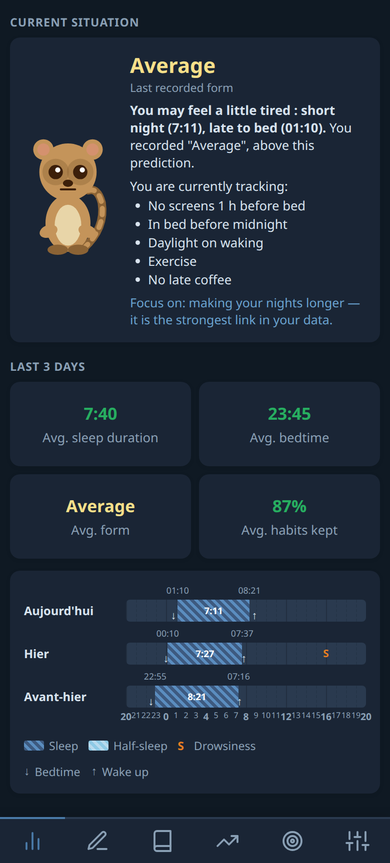
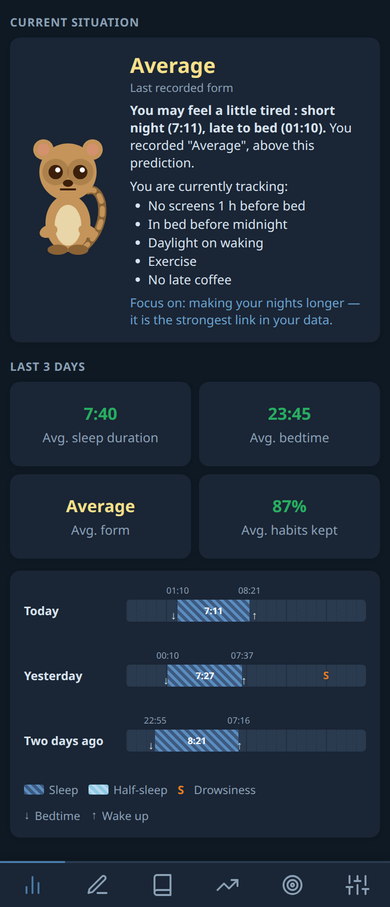
Drop the hour ruler from the dashboard preview
Each recorded period already carries its own start and end times there, so
a full 24 h ruler underneath only repeated the axis without adding
information. renderTL takes opts.hideHours; Entry and History keep theirs,
where rows must be comparable against a common scale.

The preview's day labels were also still French whatever the language.

Claude-Session: https://claude.ai/code/session_01FQFvFp19TCnSP51ghzrwLx

diff --git a/frontend/js/summary.js b/frontend/js/summary.js
@@ -584,24 +584,20 @@ function renderSummary() {
     <div class="chart-card sum-preview" style="margin-bottom:12px">
       ${prevDays.map(({ds, e}, i) => {
         // The night dated yesterday carries today's day form
-        const label = ['Aujourd\'hui', 'Hier', 'Avant-hier'][i];
+        const label = [t('d_today'), t('d_yesterday'), t('d_before')][i];
         const dateTip = new Date(ds+'T12:00:00').toLocaleDateString(t('locale'), {weekday:'long', day:'2-digit', month:'long'});
         return `<div class="sum-prev-row"${i ? ' style="margin-top:6px"' : ''}>
             <span class="sum-prev-lbl" title="${t('night_of_one')(dateTip)}">${label}</span>
             <div id="sum-prev-${i}" style="flex:1;min-width:0">${e ? '' : `<p class="sum-prev-empty">${t('none_day')}</p>`}</div>
           </div>`;
       }).join('')}
-      <div class="sum-prev-row sum-prev-foot">
-        <span class="sum-prev-lbl"></span>
-        <div id="sum-prev-ruler" style="flex:1;min-width:0"></div>
-      </div>
       <div id="sum-prev-legend"></div>
     </div>`;
 
   // "Your data analysed" moved to the Statistics tab (renderCorrelations).
   el.innerHTML = sectionTitle(t('sec_now')) + mascotCard + miniCards + previewCard;
 
-  prevDays.forEach(({e}, i) => { if (e) renderTL(e, `sum-prev-${i}`, { showTimes: true }); });
+  prevDays.forEach(({e}, i) => { if (e) renderTL(e, `sum-prev-${i}`, { showTimes: true, hideHours: true }); });
   // renderTL re-emits the ruler and legend on every call, inside the row it renders
   // into: only one set is kept, moved into the card's footer so every row keeps the
   // same height and label, bar and duration stay aligned.
@@ -614,7 +610,6 @@ function renderSummary() {
       const dest = document.getElementById(destId);
       if (keep && dest) dest.appendChild(keep);
     };
-    moveLast('.tl-hlabels', 'sum-prev-ruler');
     moveLast('.tl-legend',  'sum-prev-legend');
   }
 }

diff --git a/frontend/js/timeline.js b/frontend/js/timeline.js
@@ -118,9 +118,11 @@ function renderTL(e, containerId, opts = {}) {
       `font-size:0.65rem;color:#e67e22;font-weight:700;z-index:2;pointer-events:none" title="${d}">S</div>`;
   });
 
-  // Hour labels — every 1h; major at every 4h
+  // Hour labels — every 1h; major at every 4h.
+  // `opts.hideHours` drops them entirely: the dashboard preview stamps each recorded
+  // period with its own times, so a full ruler underneath only adds noise.
   let labels = '';
-  for (let h = 0; h <= 24; h++) {
+  for (let h = 0; opts.hideHours ? false : h <= 24; h++) {
     const hour = (20 + h) % 24;
     const major = h % 4 === 0;
     labels += `<div style="position:absolute;left:${pct(h/24)};transform:translateX(-50%);` +

diff --git a/frontend/js/i18n.js b/frontend/js/i18n.js
@@ -6,6 +6,7 @@ const S = {
     nav_saisie:'Saisie', nav_hist:'Historique', nav_stats:'Statistiques', nav_options:'Options',
     display_card:'Affichage', lbl_theme:'Thème', lbl_lang:'Langue',
     // --- Tableau de bord (mascotte, cartes) ---
+    d_today:'Aujourd\'hui', d_yesterday:'Hier', d_before:'Avant-hier',
     sec_now:'Situation actuelle', sec_3d:'3 derniers jours', sec_analysis:'Analyse de tes données',
     last_form:'Dernière forme enregistrée', no_form:'Aucune forme enregistrée',
     m_first:'Enregistre ta première nuit pour voir une prédiction.',
@@ -123,6 +124,7 @@ const S = {
     nav_saisie:'Entry', nav_hist:'History', nav_stats:'Statistics', nav_options:'Settings',
     display_card:'Display', lbl_theme:'Theme', lbl_lang:'Language',
     // --- Dashboard (mascot, cards) ---
+    d_today:'Today', d_yesterday:'Yesterday', d_before:'Two days ago',
     sec_now:'Current situation', sec_3d:'Last 3 days', sec_analysis:'Your data analysed',
     last_form:'Last recorded form', no_form:'No form recorded',
     m_first:'Record your first night to see a prediction.',